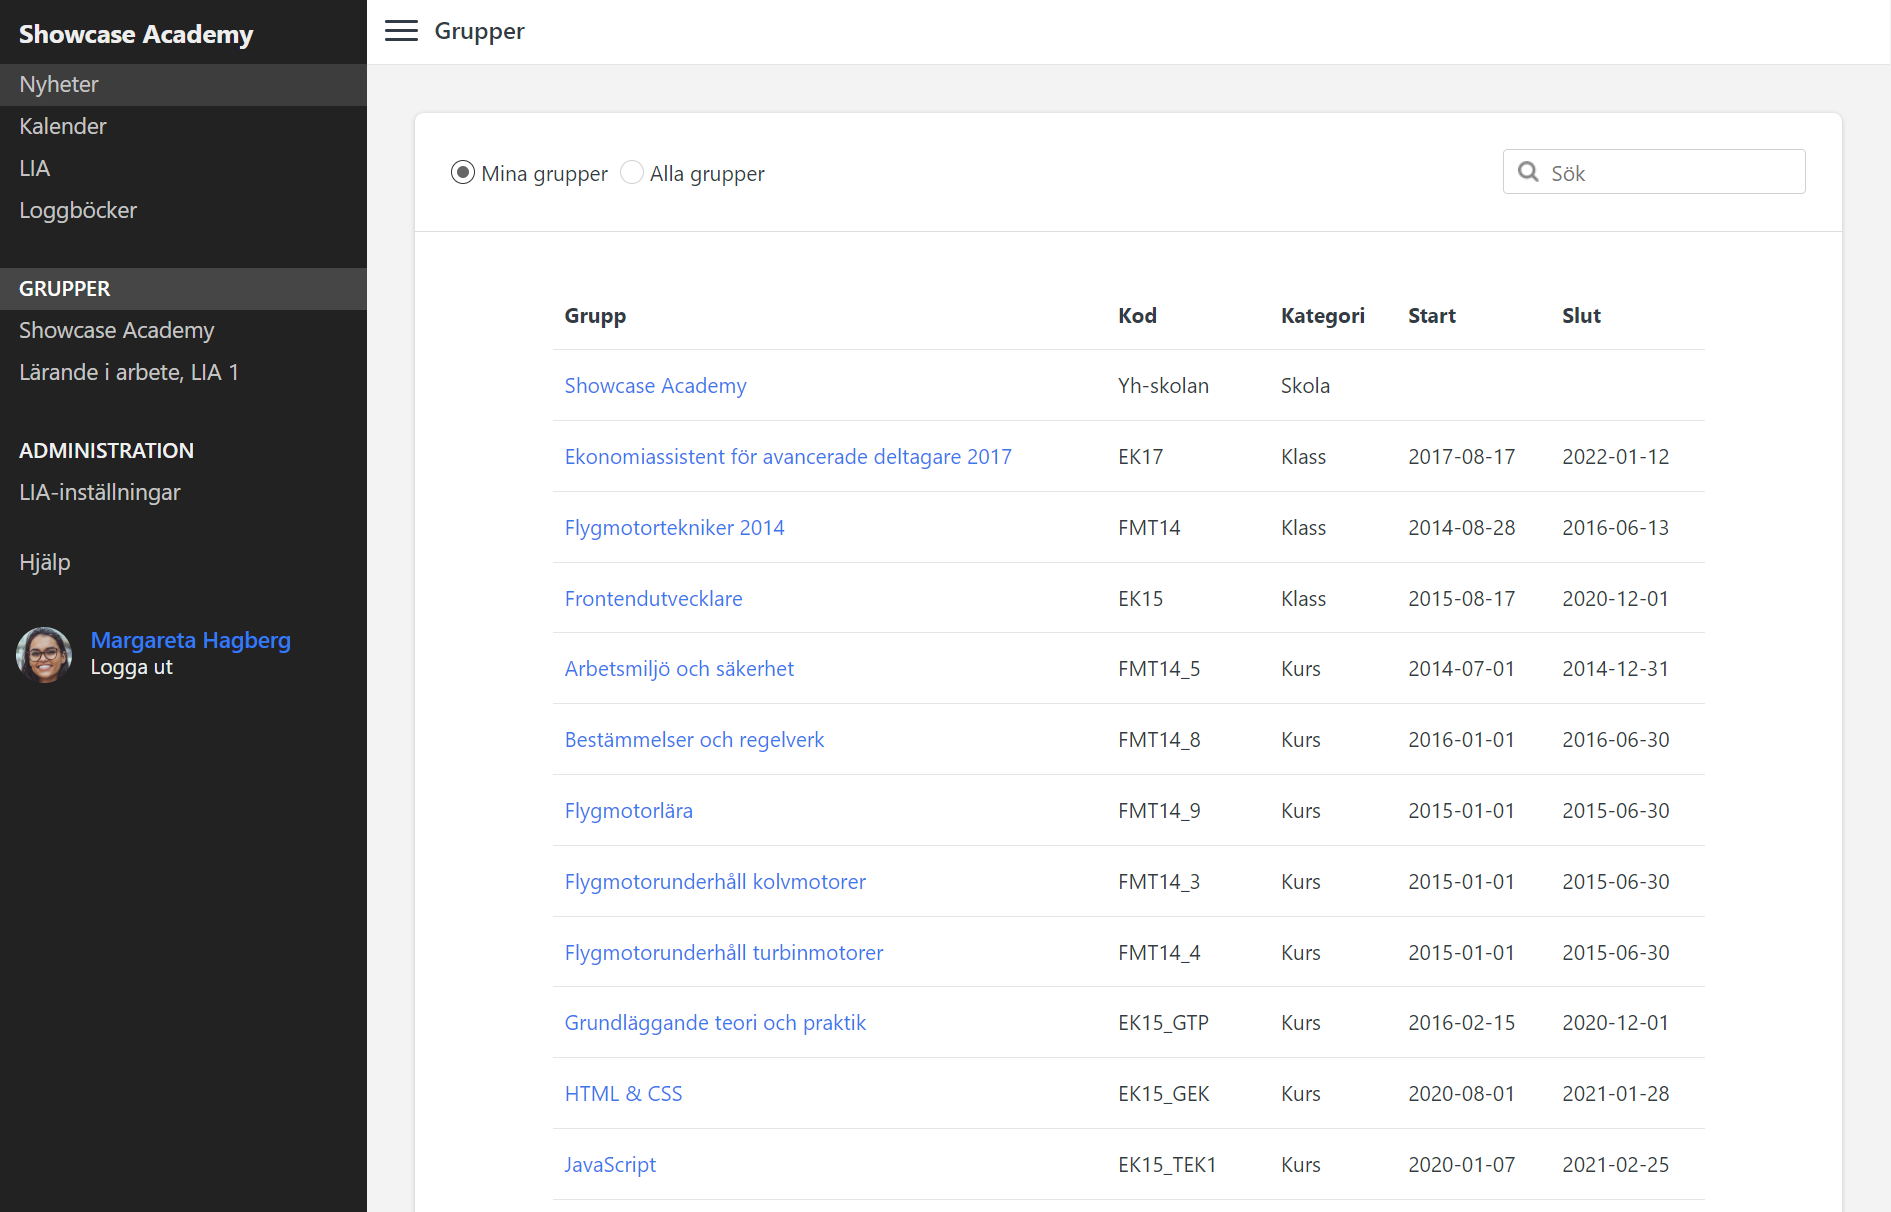
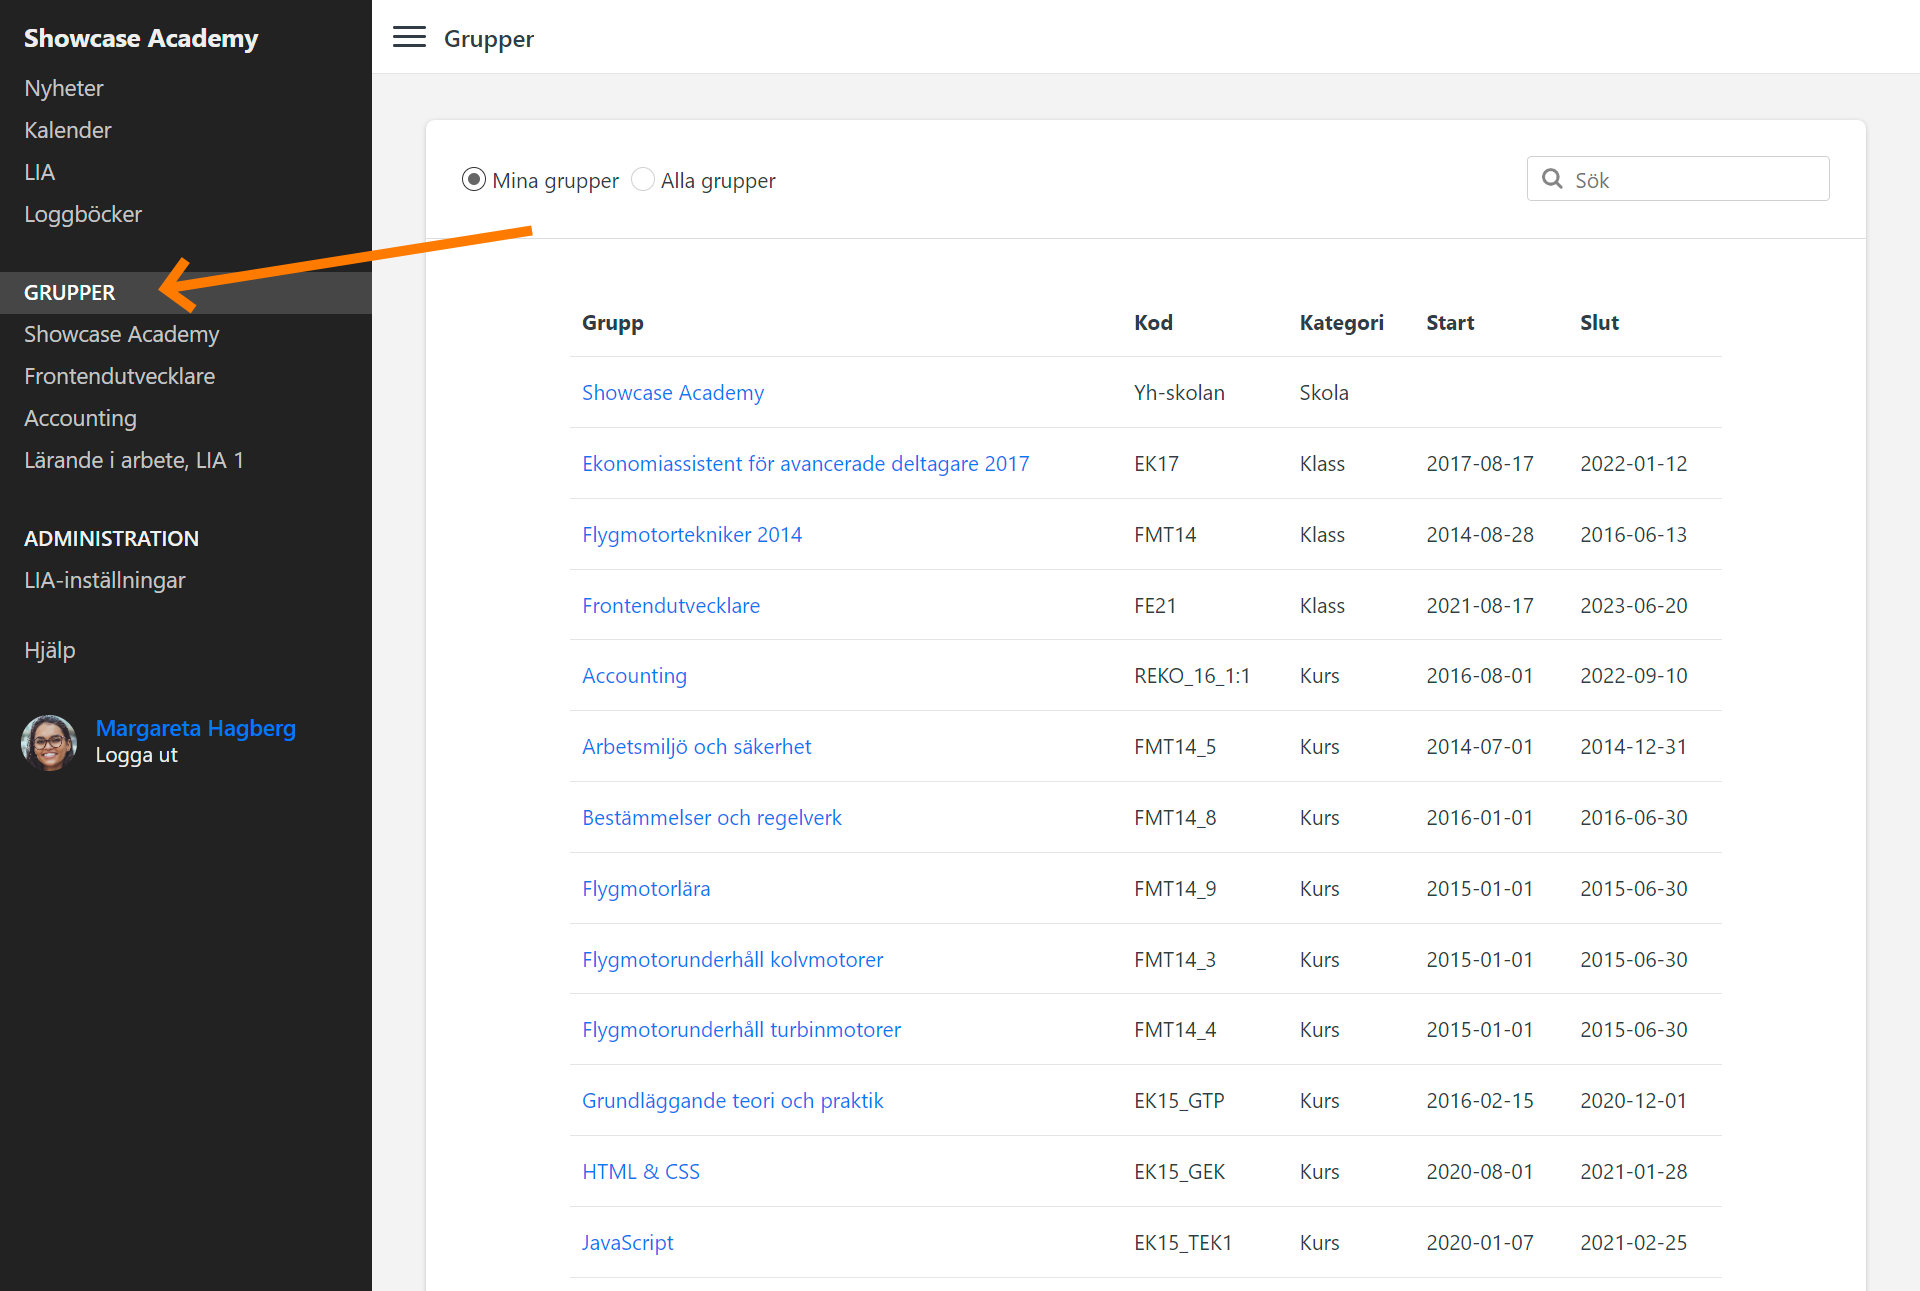
group introduction

diff --git a/docs/help/groups/introduction.html b/docs/help/groups/introduction.html
@@ -229,8 +229,9 @@
                 <h1>Grupper</h1>
 <p lang="en" style="font-style:italic;">This page is only available in swedish.</p>
 
-<h2>Hitta dina grupper</h2>
-<p>Klicka på länken <code>Grupper</code> för att se och söka bland dom grupper du har tillgång till:</p>
+
+<h2>Hitta grupper</h2>
+<p>Klicka på länken <code>Grupper</code> för att se och söka bland dina grupper:</p>
 <div class="desktop-screenshot print__avoid-break-inside default">
     <div class="desktop-screenshot__browser-frame">
         <span class="desktop-screenshot__browser-frame-button"></span>
@@ -241,9 +242,27 @@
     <img alt="{{alt}}" src="_assets/groups.png" onload="this.parentElement.classList.add('LOADED')" />
 </div>
 
-<h2>Dina aktuella grupper</h2>
-<p>Dina aktuella grupper (dom du är medlem i och som pågår just nu) finns i huvudmenyn:</p>
-<p>[IMAGE]</p>
+
+<h2>Aktuella grupper</h2>
+<p>Dina aktuella grupper visas i vänstermenyn:</p>
+<div class="desktop-screenshot print__avoid-break-inside default">
+    <div class="desktop-screenshot__browser-frame">
+        <span class="desktop-screenshot__browser-frame-button"></span>
+        <span class="desktop-screenshot__browser-frame-button"></span>
+        <span class="desktop-screenshot__browser-frame-button"></span>
+    </div>
+
+    <img alt="{{alt}}" src="_assets/current-groups.png" onload="this.parentElement.classList.add('LOADED')" />
+</div>
+
+
+<h2>Grupptyper</h2>
+<p>Det finns tre typer av grupper i Learnpoint:</p>
+<ol>
+<li><em>Skola.</em> Den gemensamma gruppen för skolan har samma namn som skolan och innehåller alla inskrivna studerande och de som är anställda på skolan. Konsulter och LIA-handledare är inte medlemmar i denna grupp.</li>
+<li><em>Klass.</em> En klass motsvarar en utbildning och innehåller en eller flera kurser.</li>
+<li><em>Kurs.</em> En kurs kan tillhöra en klass eller vara fristående.</li>
+</ol>
 
             </main>
         </div>

diff --git a/docs/_styles/pages/help-page.css b/docs/_styles/pages/help-page.css
@@ -80,7 +80,7 @@
 
 .help-page li {
     margin-bottom: .5em;
-    line-height: 1.2;
+    line-height: 1.3;
 }
 
 

diff --git a/src/_styles/pages/help-page.css b/src/_styles/pages/help-page.css
@@ -80,7 +80,7 @@
 
 .help-page li {
     margin-bottom: .5em;
-    line-height: 1.2;
+    line-height: 1.3;
 }
 
 

diff --git a/src/help/groups/introduction.md b/src/help/groups/introduction.md
@@ -8,14 +8,24 @@ description: Grupper / Inledning - Learnpoint Hjälp och Support
 
 <!-- only-in-swedish.html -->
 
-## Hitta dina grupper
 
-Klicka på länken `Grupper` för att se och söka bland dom grupper du har tillgång till:
+## Hitta grupper
+
+Klicka på länken `Grupper` för att se och söka bland dina grupper:
 
 <!-- desktop-screenshot.html, { src: "_assets/groups.png" } -->
 
-## Dina aktuella grupper
 
-Dina aktuella grupper (dom du är medlem i och som pågår just nu) finns i huvudmenyn:
+## Aktuella grupper
 
-[IMAGE]
+Dina aktuella grupper visas i vänstermenyn:
+
+<!-- desktop-screenshot.html, { src: "_assets/current-groups.png" } -->
+
+
+## Grupptyper
+
+Det finns tre typer av grupper i Learnpoint:
+1. *Skola.* Den gemensamma gruppen för skolan har samma namn som skolan och innehåller alla inskrivna studerande och de som är anställda på skolan. Konsulter och LIA-handledare är inte medlemmar i denna grupp.
+2. *Klass.* En klass motsvarar en utbildning och innehåller en eller flera kurser.
+3. *Kurs.* En kurs kan tillhöra en klass eller vara fristående.
